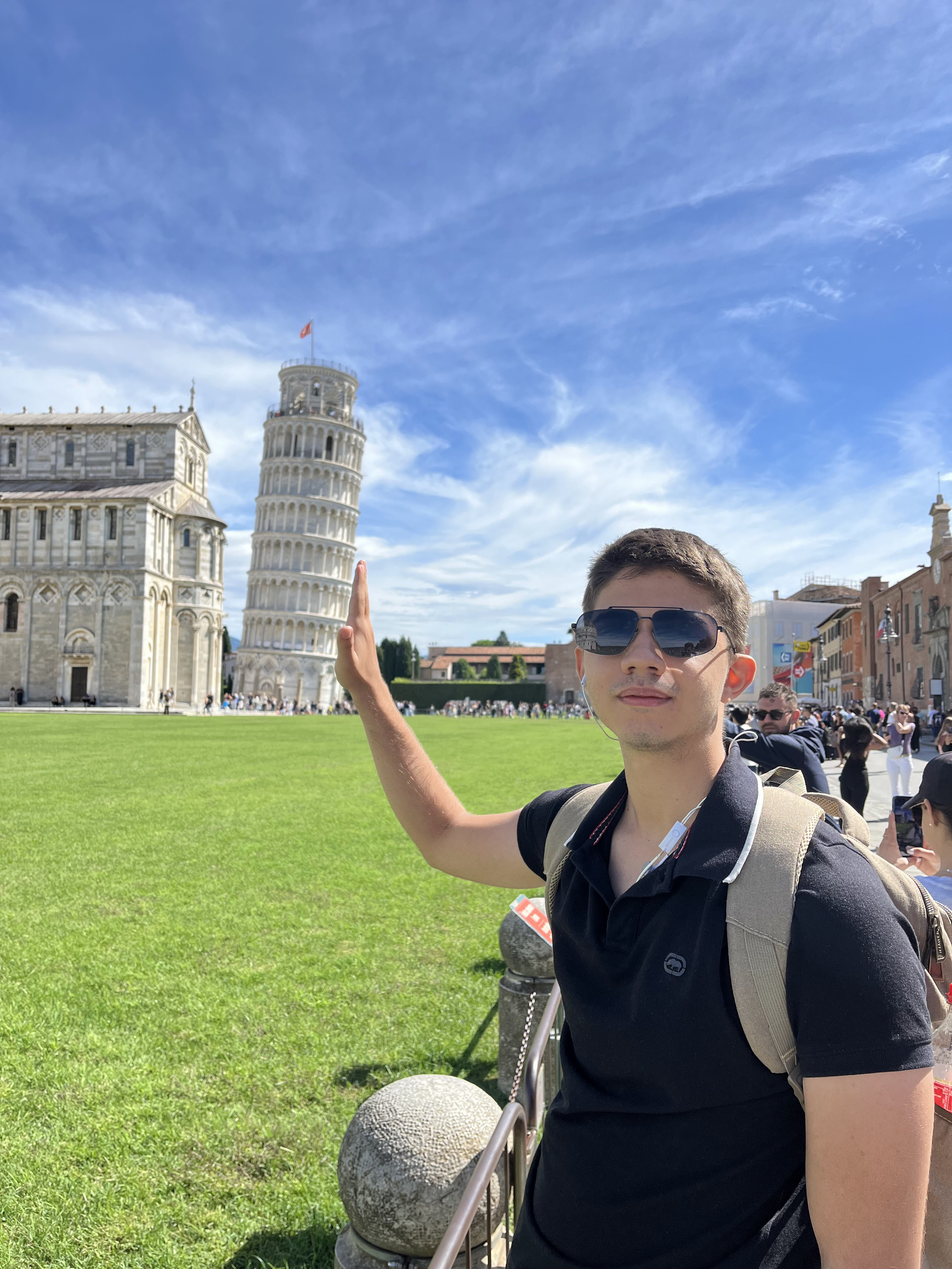
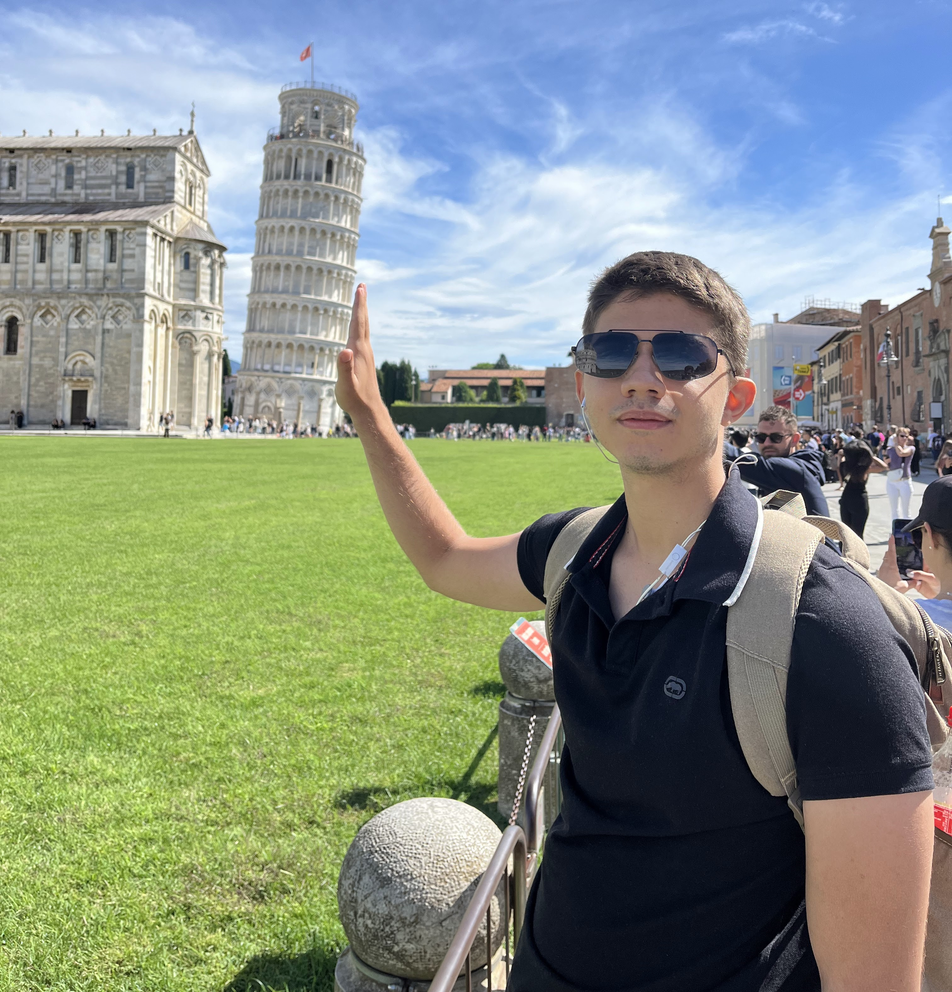
God Thanks - Acabei a parte dos botôes interativos do portifolio

diff --git a/src/app/components/AboutSection.jsx b/src/app/components/AboutSection.jsx
@@ -1,14 +1,50 @@
-import React from 'react'
+"use client"
+import React, { useTransition, useState } from 'react'
 import Image from "next/image"
+import TabButton from  "./TabButton"
 
 const AboutSection = () => {
+  const [tab, setTab] = useState("skills")
+  const [isPending, startTransition] = useTransition()
+
+  const handleTabChange = (id) => {
+    startTransition(() => {
+      setTab(id);
+    })
+  }
+
   return (
   <section className="text-white">
     <div className="md:grid md:grid-cols-2 gap-8 items-center py-8 px-4 xl:gap-16 sm:py-16 xl:px-16">
-      <Image src="/images/me1.jpg" width={500} height={500} alt="me"/>
+      <Image src="/images/me1.jpg" width={500} height={500} alt="me" className="rounded-lg" />
       <div>
-        <h2>About Me</h2>
-        <p>Sou musico e desenvolvedor, toco violino e adoro viajar para conhecer novas culturas e línguas. A programação me inspira, pois, por meio dela, posso ajudar empresas a alcançarem seus objetivos e até mesmo realizarem seus sonhos. Tenho mais de 20 formações pela FIAP, a maior faculdade de tecnologia do Brasil. Na foto ao lado, estou tentando &quot;segurar&quot; a Torre de Pisa, pois ela foi &quot;codificada&quot; de forma errada.</p>
+        <h2 className="text-4xl font-bold text-white my-4">Quem Sou</h2>
+        <p className="text-base lg:text-lg">
+          Sou musico e desenvolvedor, toco violino e adoro viajar para conhecer novas culturas e línguas. A programação me inspira, pois, por meio dela, posso ajudar empresas a alcançarem seus objetivos e até mesmo realizarem seus sonhos. Tenho mais de 20 formações pela FIAP, a maior faculdade de tecnologia do Brasil. Na foto ao lado, estou tentando &quot;segurar&quot; a Torre de Pisa, pois ela foi &quot;codificada&quot; de forma errada.
+        </p>
+        <div className="flex flex-row mt-8">
+          <TabButton
+            selecTab={() => handleTabChange("skills")}
+            active={tab === "skills"}
+          > 
+            {" "}
+            Skills{" "}
+          </TabButton>
+          <TabButton
+            selecTab={() => handleTabChange("viagens")}
+            active={tab === "viagens"}
+          > 
+            {" "}
+            Viagens{" "}
+          </TabButton>
+          <TabButton
+            selecTab={() => handleTabChange("conhecimentos")}
+            active={tab === "conhecimentos"}
+          > 
+            {" "}
+            Conhecimentos{" "}
+          </TabButton>
+         </div>
       </div>
     </div>
   </section>

diff --git a/src/app/components/TabButton.jsx b/src/app/components/TabButton.jsx
@@ -1,0 +1,18 @@
+import React from 'react'
+
+const TabButton = ({ active, selecTab, children}) => {
+  const buttonClasses = active
+   ? 'text-white border-b border-orange-500'
+   : 'text-[#ADB7BE]'
+   
+  return (
+    <button onClick={selecTab}>
+      <p className={`mr-3 font-semibold hover:text-white ${buttonClasses}`}>
+        {children}
+      </p>
+      
+    </button>
+  )
+}
+
+export default TabButton
